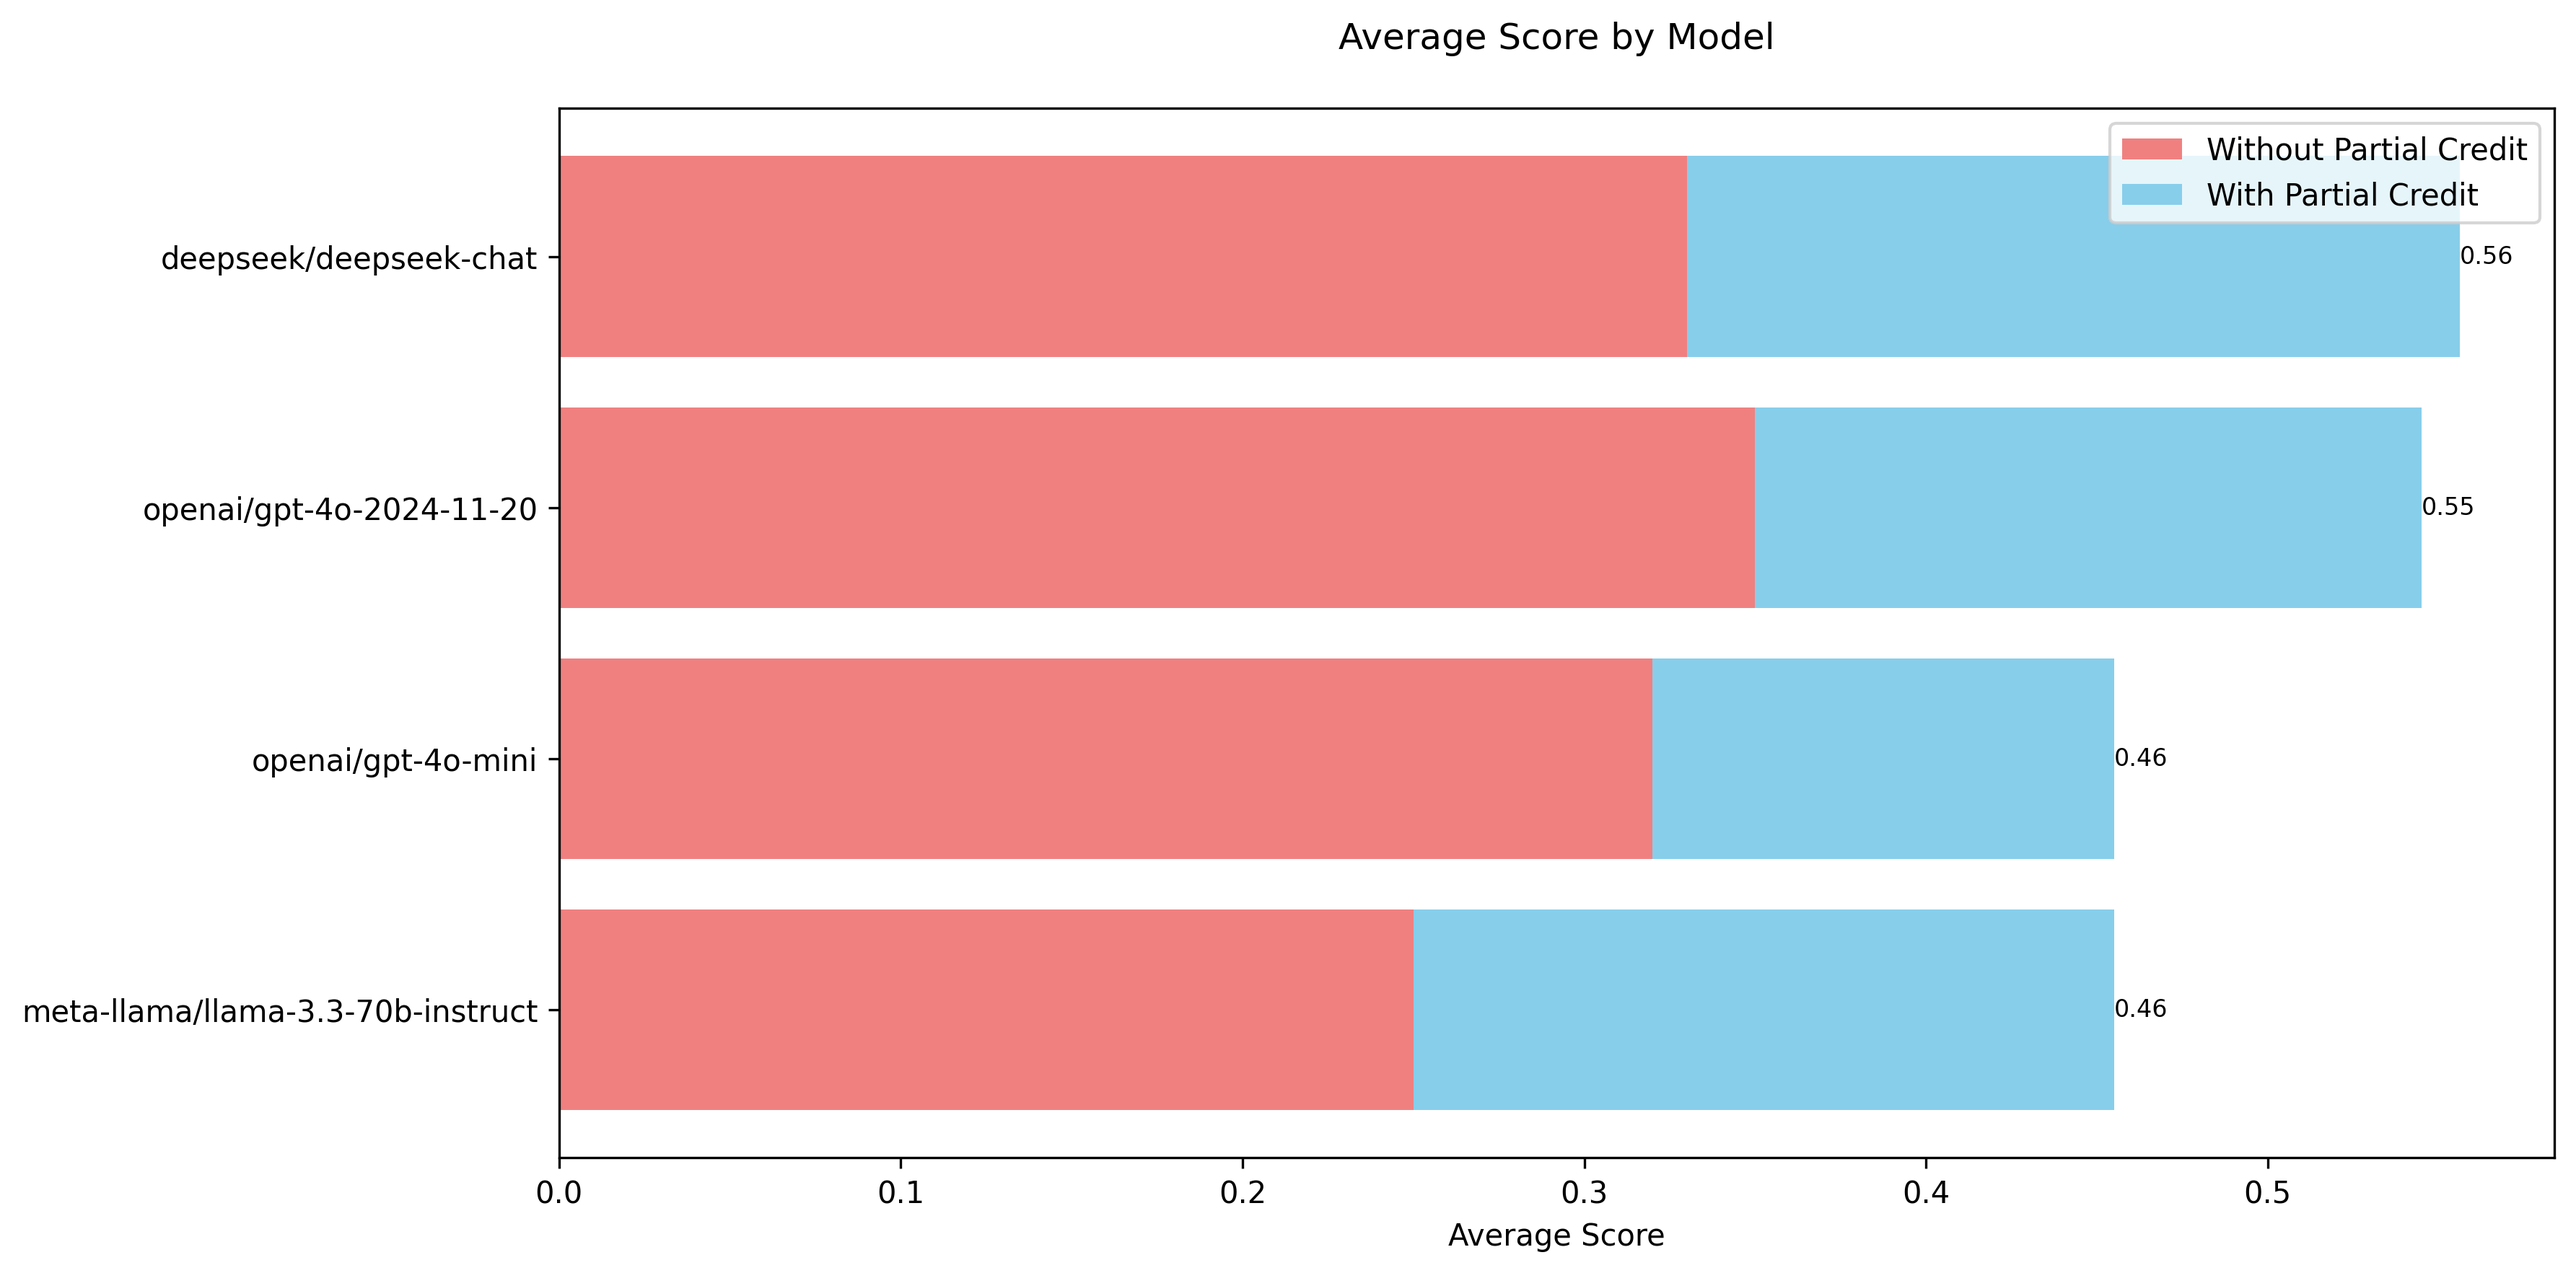
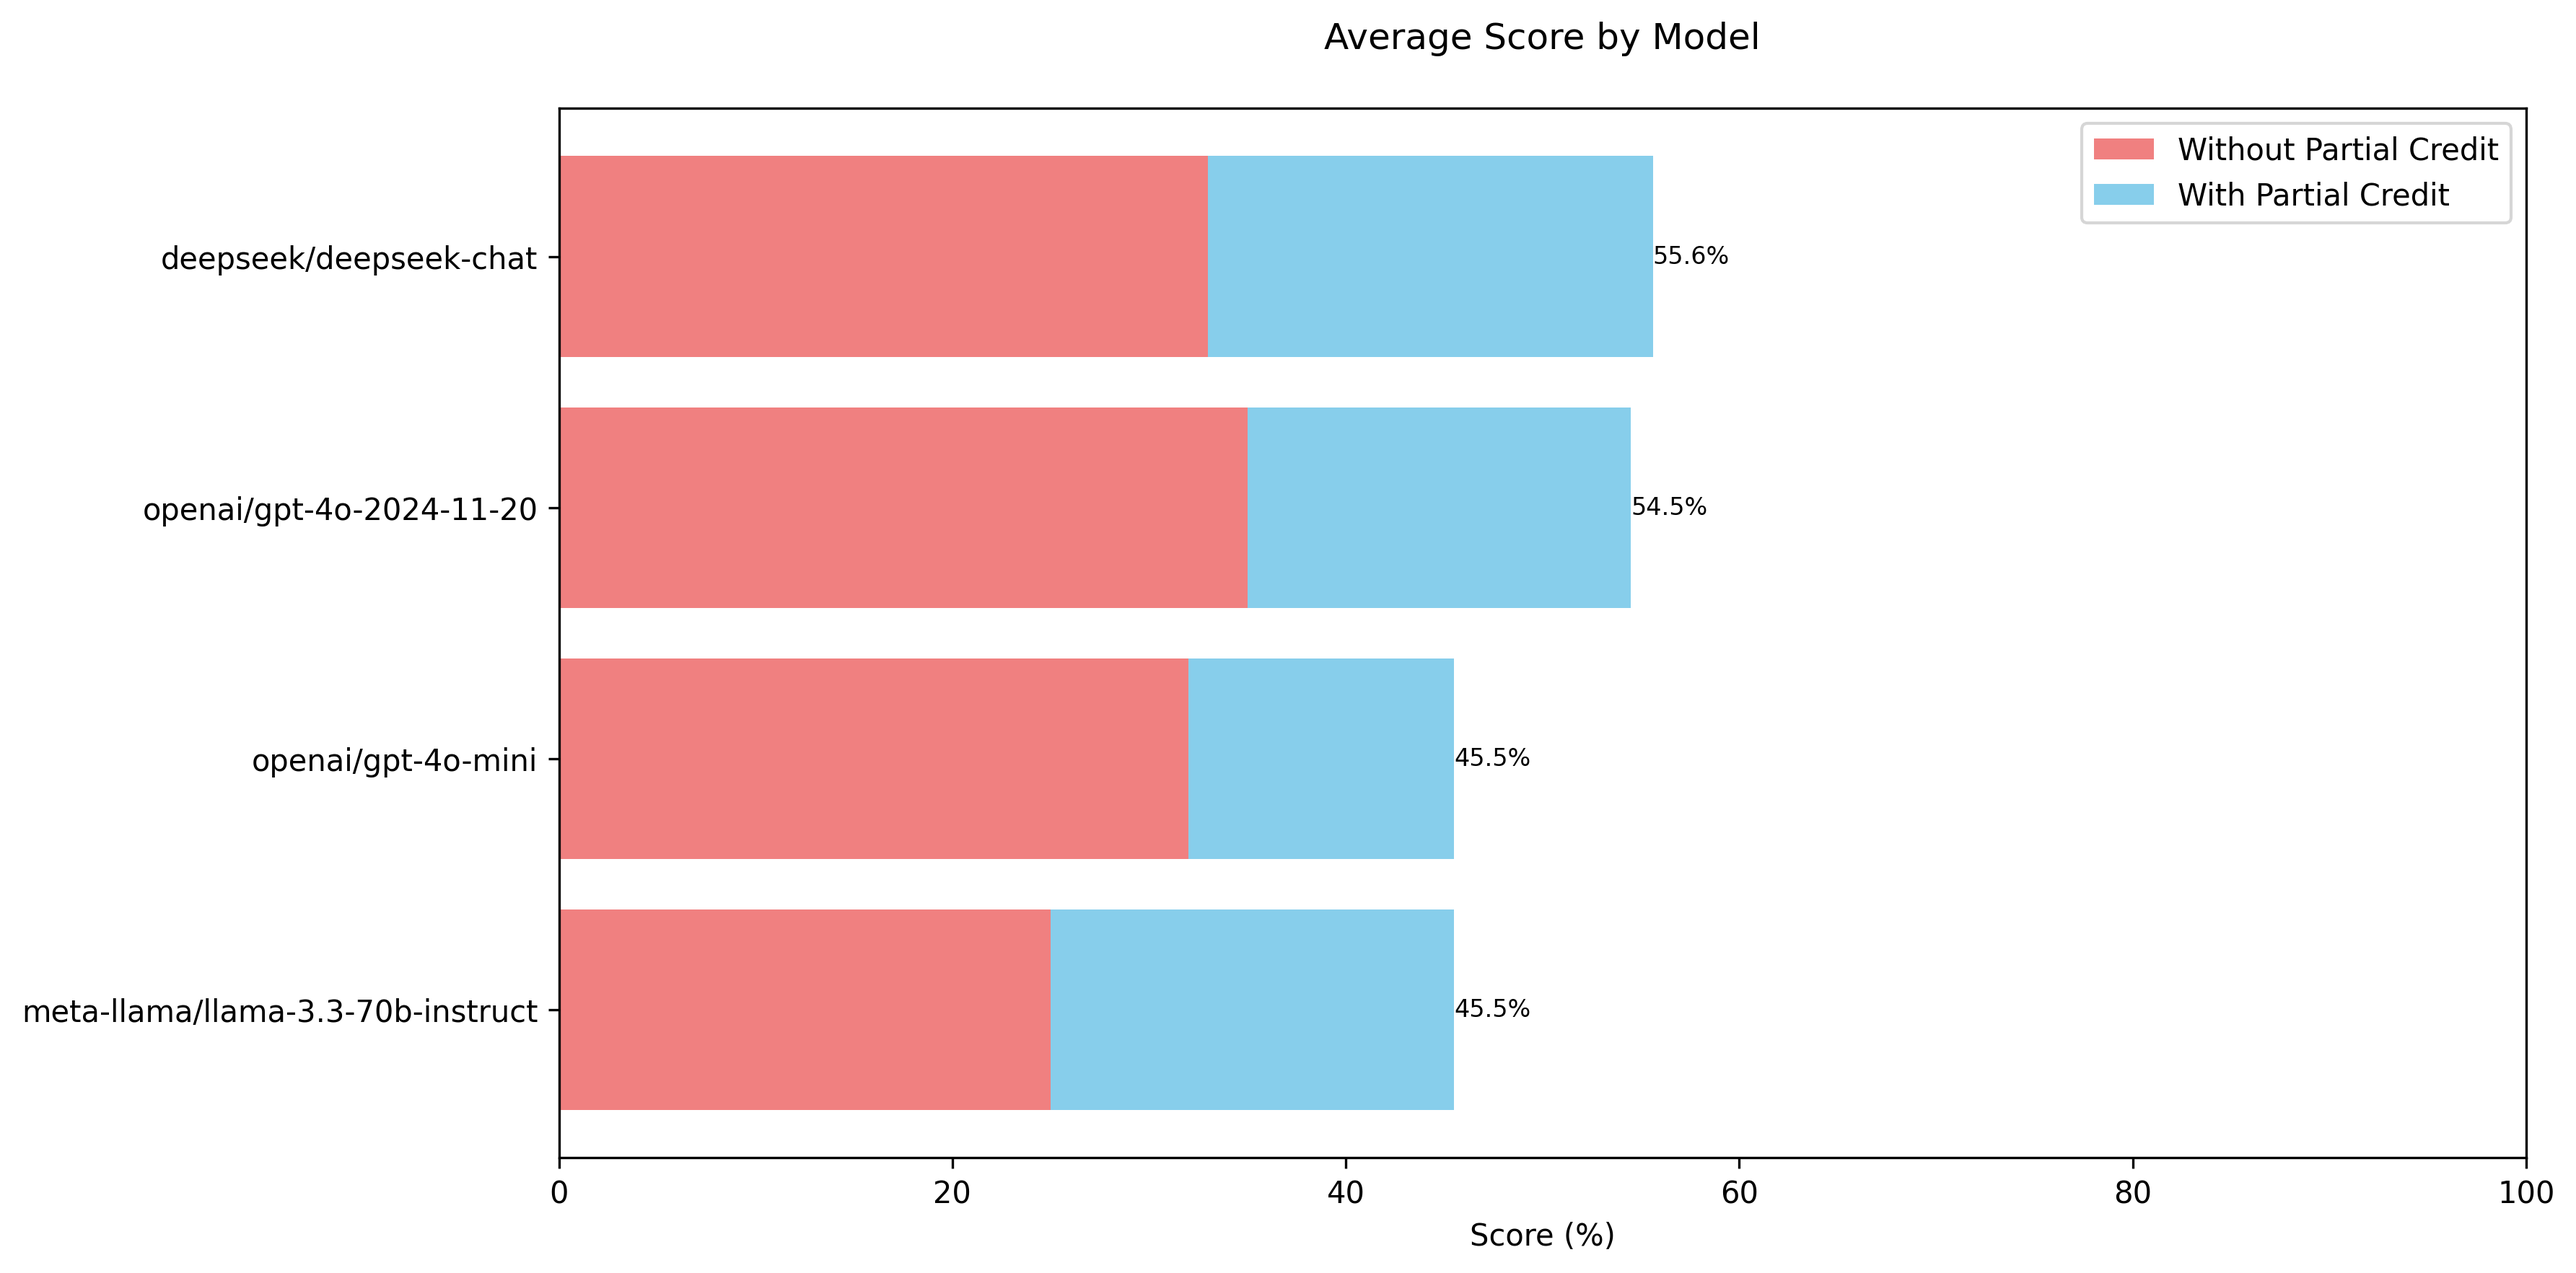
percentage scores

diff --git a/visualize.py b/visualize.py
@@ -55,10 +55,9 @@ def visualize_results():
 
     x = np.arange(len(model_scores.index))
 
-    # The portion of the bar that is strictly correct
-    strict_vals = model_scores['strict_score']
-    # The difference (additional partial credit beyond the strict score)
-    partial_addon_vals = model_scores['score'] - model_scores['strict_score']
+    # Convert scores to percentages
+    strict_vals = model_scores['strict_score'] * 100
+    partial_addon_vals = (model_scores['score'] - model_scores['strict_score']) * 100
 
     fig, ax = plt.subplots(figsize=(12, 6))
 
@@ -80,27 +79,25 @@ def visualize_results():
     )
 
     ax.set_title("Average Score by Model", pad=20)
-    ax.set_xlabel("Average Score")
+    ax.set_xlabel("Score (%)")
     ax.set_yticks(x)
     ax.set_yticklabels(model_scores.index)
+    ax.set_xlim(0, 100)  # Set x-axis limits from 0 to 100%
     ax.legend()
 
     # Function to label the total score at the end of the stacked bar
     def autolabel_total(rects1, rects2):
         for r1, r2 in zip(rects1, rects2):
-            # widths of each segment
             w1 = r1.get_width()
             w2 = r2.get_width()
             
             total = w1 + w2
-            # y-position for the label
             y_pos = r1.get_y() + r1.get_height() / 2
             
-            # Place the total just to the right of the bar
             ax.text(
                 total,
                 y_pos,
-                f"{total:.2f}",
+                f"{total:.1f}%",  # Add % symbol
                 va='center',
                 ha='left',
                 fontsize=8
@@ -118,20 +115,21 @@ def visualize_results():
     # --- 2) Difficulty breakdown ---
     plt.figure(figsize=(12, 6))
 
-    # Reverse order so "Easy" is at the top and "Very Hard" is at the bottom in a horizontal bar
     difficulty_order = ["Very Hard", "Hard", "Medium", "Easy"]
 
+    # Convert scores to percentages
     diff_scores = df.pivot_table(
         index='difficulty',
         columns='model_name',
         values='score',
         aggfunc='mean'
-    ).reindex(difficulty_order)
+    ).reindex(difficulty_order) * 100
 
     diff_scores.plot(kind='barh', width=0.8)
     plt.title("Model Performance by Difficulty", pad=20)
     plt.ylabel("Difficulty Level")
-    plt.xlabel("Average Score")
+    plt.xlabel("Score (%)")
+    plt.xlim(0, 100)  # Set x-axis limits from 0 to 100%
     plt.legend(title="Model", bbox_to_anchor=(0.5, -0.15), loc='upper center', ncol=3)
     plt.tight_layout()
     plt.savefig('data/plots/2_difficulty_breakdown.png', bbox_inches='tight', dpi=300)
@@ -153,12 +151,13 @@ def visualize_results():
         include_lowest=True
     )
 
+    # Convert scores to percentages
     token_scores = df.pivot_table(
         index='token_bracket',
         columns='model_name',
         values='score',
         aggfunc='mean'
-    )
+    ) * 100
 
     # Reverse order so "10k" is at the top and "100k" at the bottom
     bracket_order = ['100k', '90k', '80k', '70k', '60k',
@@ -171,7 +170,8 @@ def visualize_results():
     token_scores.plot(kind='barh', width=0.8)
     plt.title("Model Performance by Token Size", pad=20)
     plt.ylabel("Token Bracket")
-    plt.xlabel("Average Score")
+    plt.xlabel("Score (%)")
+    plt.xlim(0, 100)  # Set x-axis limits from 0 to 100%
     plt.legend(title="Model", bbox_to_anchor=(0.5, -0.15), loc='upper center', ncol=3)
     plt.tight_layout()
     plt.savefig('data/plots/3_token_size_breakdown.png', bbox_inches='tight', dpi=300)

diff --git a/evaluation.py b/evaluation.py
@@ -4,7 +4,7 @@ from models import Example
 from langchain_openai import ChatOpenAI
 import os
 from judges import correctness_judge
-
+import time
 
 class Model:
     def __init__(self, name: str):
@@ -45,7 +45,8 @@ free to BRIEFLY reason through your decision first to make sure you get your <AN
                 return self.llm.invoke(prompt).content
             except Exception as e:
                 if attempt == 0:  # Only print and continue if it's the first attempt
-                    print(f"First attempt failed: {e}. Retrying...")
+                    print(f"First attempt failed: {e}. Retrying in 30 seconds...")
+                    time.sleep(30)
                     continue
                 print(f"Retry failed: {e}")
                 raise e  # Re-raise the exception after retry fails
@@ -65,7 +66,7 @@ def run_evals(model_name: str, custom_label: str = None, max_concurrency: int = 
                                   "10k Tokens", "20k Tokens", "30k Tokens", "40k Tokens", "50k Tokens"]),
         evaluators=[correctness_judge],
         max_concurrency=max_concurrency,
-        experiment_prefix=model_name,
+        experiment_prefix=custom_label or model_name,
     )
 
     store_results(results, model_name, custom_label)
